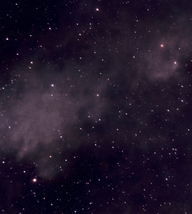
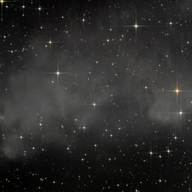
Witch

diff --git a/Stories/Astropedia.md b/Stories/Astropedia.md
@@ -133,6 +133,8 @@
 | <img src='..//Stories//Pics/West_Veil_Nebula.jpg'> |In modern usage, the names Veil Nebula, Cirrus Nebula, and Filamentary Nebula generally refer to the brightest part of the visible structure of the remnant, or even to the entire loop itself. The structure is so large that several NGC numbers were assigned to various arcs of the nebula.[9] There are three main visual components: The Western Veil (also known as Caldwell 34), consisting of NGC 6960 (the "Witch's Broom", Lacework Nebula,"Filamentary Nebula") near the foreground star 52 Cygni; The Eastern Veil (also known as Caldwell 33), whose brightest area is NGC 6992, trailing off farther south into NGC 6995 (together with NGC 6992 also known as "Network Nebula") and IC 1340; Pickering's Triangle (or Pickering's Triangular Wisp), brightest at the north central edge of the loop, but visible in photographs continuing toward the central area of the loop. |
 | [Whirlpool Galaxy](..//Stories//Whirlpool_Galaxy.md)  |	|
 | <img src='..//Stories//Pics/Whirlpool_Galaxy.jpg'> |The Whirlpool Galaxy, also known as Messier 51a (M51a) or NGC 5194, is an interacting grand-design spiral galaxy with a Seyfert 2 active galactic nucleus.[6][7][8] It lies in the constellation Canes Venatici, and was the first galaxy to be classified as a spiral galaxy.[9] It is 31 million lightyears (9.5 megaparsecs/Mpc) away and 23.58 kiloparsecs (76,900 ly) in diameter.[2][10] The galaxy and its companion, NGC 5195,[11] are easily observed by amateur astronomers, and the two galaxies may be seen with binoculars.[12] The Whirlpool Galaxy has been extensively observed by professional astronomers, who study it and its pair with dwarf galaxy NGC 5195 to understand galaxy structure (particularly structure associated with the spiral arms) and galaxy interactions. Its pair with NGC 5195 is among the most famous and relatively close interacting systems, and thus is a favorite subject of galaxy interaction models. |
+| [Witch Head Nebula](..//Stories//Witch_Head_Nebula.md)  |	|
+| <img src='..//Stories//Pics/Witch_Head_Nebula.jpg'> |IC 2118 (also known as Witch Head Nebula due to its shape) is an extremely faint reflection nebula believed to be an ancient supernova remnant or gas cloud illuminated by nearby supergiant star Rigel in the constellation of Orion. The nebula lies in the Eridanus Constellation,[1] about 900 light-years from Earth. The nature of the dust particles, reflecting blue light better than red, is a factor in giving the Witch Head its blue color. Radio observations show substantial carbon monoxide emission throughout parts of IC 2118, an indicator of the presence of molecular clouds and star formation in the nebula. In fact candidates for pre-main sequence stars and some classic T Tauri stars have been found deep within the nebula |
 | [Wizard Nebula](..//Stories//Wizard_Nebula.md)  |	|
 | <img src='..//Stories//Pics/Wizard_Nebula.jpg'> |NGC 7380 is a young open cluster of stars in the northern circumpolar constellation of Cepheus, discovered by Caroline Herschel in 1787. The surrounding emission nebulosity is known colloquially as the Wizard Nebula, which spans an angle of 25'. German-born astronomer William Herschel included his sister's discovery in his catalog, and labelled it H VIII.77. The nebula is known as S 142 in the 1959 Sharpless catalog (Sh2-142). It is extremely difficult to observe visually, usually requiring very dark skies and an O-III filter. The NGC 7380 complex is located at a distance of approximately 8.5 kilolight-years from the Sun, in the Perseus Arm of the Milky Way. The cluster spans ~20 light-years (6 pc) with an elongated shape and an extended tail. Age estimates range from 4 to 11.9 million years. At the center of the cluster lies DH Cephei, a close, double-lined spectroscopic binary system consisting of two massive O-type stars. This pair are the primary ionizing source for the surrounding H II region, and are driving out the surrounding gas and dust while triggering star formation in the neighboring region. Of the variable stars that have been identified in the cluster, 14 have been identified as pre-main sequence stars while 17 are main sequence stars that are primarily B-type variables. |
 | [XTMAS Tree Nebula](..//Stories//XTMAS_Tree_Nebula.md)  |	|

diff --git a/Stories/Witch_Head_Nebula.md b/Stories/Witch_Head_Nebula.md
@@ -17,13 +17,8 @@ IC 2118 (also known as Witch Head Nebula due to its shape) is an extremely faint
 ## Details
 
 
-| | | |
-| :---: | :---: | :---:|
-| |<img src="..//Imaging//HD/Witch_Head_Nebula+BITE00+15+16.jpg" width="200"> | 16 ly |
-| |15 ly | |
-
-
 ## Gallery
 ![IMG](..//Imaging//HD/Witch_Head_Nebula+00+co.jpg) 
 
 ![](..//Imaging//HD/Witch_Head_Nebula+00+bg.jpg)
+![](..//Imaging//HD/Witch_Head_Nebula+00+bn.jpg)
